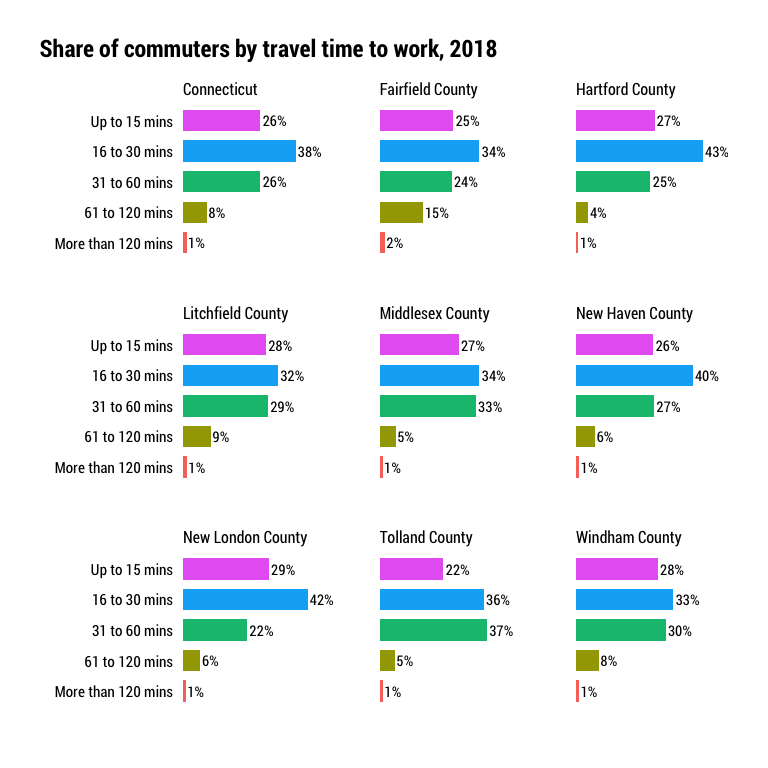
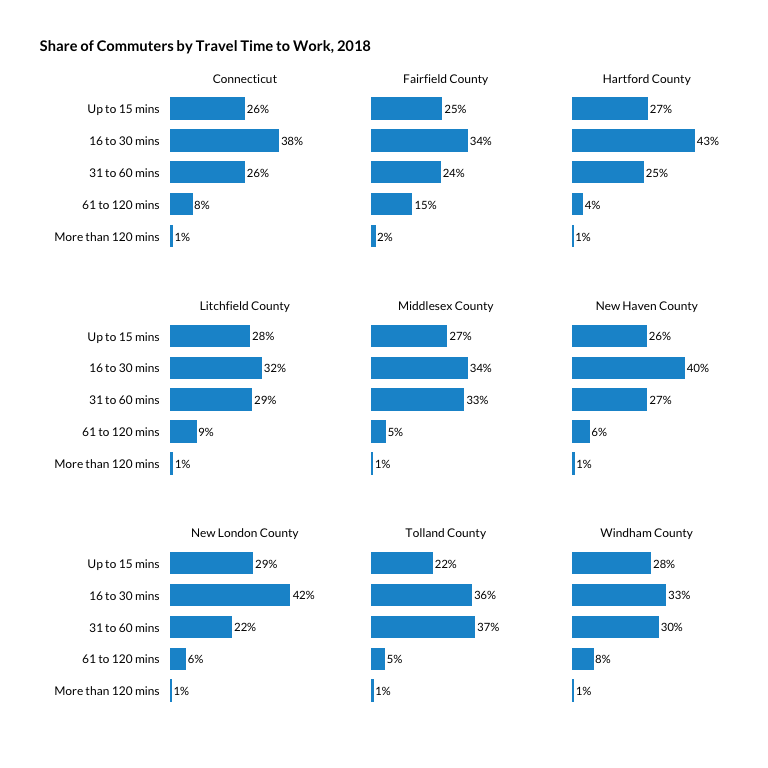
commute charts

diff --git a/notebooks/commute_times.md b/notebooks/commute_times.md
@@ -7,6 +7,13 @@ library(ipumsr)
 library(srvyr)
 ```
 
+``` r
+theme_set(hrbrthemes::theme_ipsum_rc(base_family = "Lato Regular"))
+
+#urban colors
+pal <- c("#1696d2", "#fdbf11", "#d2d2d2", "#ec008b", "#55b748")
+```
+
 I’m not sure if this makes the most sense or not, but commute times here
 are given as share by time range (mean is influenced by some very high
 and low commute times) by county and the state, then by tenure.
@@ -98,22 +105,27 @@ commute %>%
                  year == "2018") %>% 
     mutate(commute_time = fct_rev(commute_time)) %>% 
     ggplot(aes(share, commute_time)) +
-    geom_col(aes(fill = commute_time), width = .7, position = position_dodge(.8)) +
-    geom_text(aes(label = scales::percent(share, accuracy = 1)), position = position_dodge(.8), hjust = -.1, family = "Roboto Condensed") +
-    scale_x_continuous(expand = expansion(mult = c(.05, .2))) +
+    geom_col(width = .7, position = position_dodge(.8), fill=pal[1]) +
+    geom_text(aes(label = scales::percent(share, accuracy = 1)), position = position_dodge(.8), hjust = -.1, family = "Lato Regular", size = 3) +
+    scale_x_continuous(expand = expansion(mult = c(.05, .272))) +
     facet_wrap(facets = "name") + 
-    hrbrthemes::theme_ipsum_rc() +
-    labs(title = "Share of commuters by travel time to work, 2018", x = "", y = "") +
+    labs(title = "Share of Commuters by Travel Time to Work, 2018", x = "", y = "") +
     theme(plot.title.position = "plot",
+                plot.title = element_text(family = "Lato Bold", size = 11),
                 panel.grid.major = element_blank(), 
                 panel.grid.minor = element_blank(),
                 legend.position = "none",
                 axis.text.x = element_blank(),
-                axis.text.y = element_text(colour = "black"),
-                strip.text.x = element_text(colour = "black"))
+                axis.text.y = element_text(colour = "black", family = "Lato Regular", size = 9),
+                strip.text.x = element_text(hjust= .5, colour = "black", family = "Lato Regular", size = 9))
 ```
 
 ![](commute_times_files/figure-gfm/unnamed-chunk-4-1.png)<!-- -->
+
+``` r
+ggsave(filename = "../output_data/corrected_charts/commuters.png", dpi = 300, width = 6.5)
+ggsave(filename = "../output_data/corrected_charts/commuters.svg", dpi = 300, width = 6.5)
+```
 
 I’m only showing 2018 here even though 2010 and 2000 are listed in the
 csv (not much change over time…). It’s still a very long table, but more
@@ -2050,20 +2062,3 @@ commute_tenure <- bind_rows(state_com_tenure, total_state_tenure, county_com_ten
 
 write_csv(commute_tenure, file = "../output_data/commute_time_by_tenure_2000_2018.csv")
 ```
-
-I don’t think we should use this viz. It’s just here for reference.
-
-``` r
-commute_tenure %>% 
-    filter(!is.na(share), year == "2018") %>% 
-    mutate(commute_time = fct_rev(commute_time)) %>% 
-    ggplot(aes(share, commute_time, group = commute_time)) +
-    geom_point(aes(color = commute_time, shape = tenure)) +
-    facet_grid(rows = vars(name)) +
-    labs(title = "Share of commuters by travel time to work and tenure, 2018")
-```
-
-![](commute_times_files/figure-gfm/unnamed-chunk-7-1.png)<!-- -->
-
-Too many rows for a kable table… see
-commute\_time\_by\_tenure\_2000\_2018.csv.
